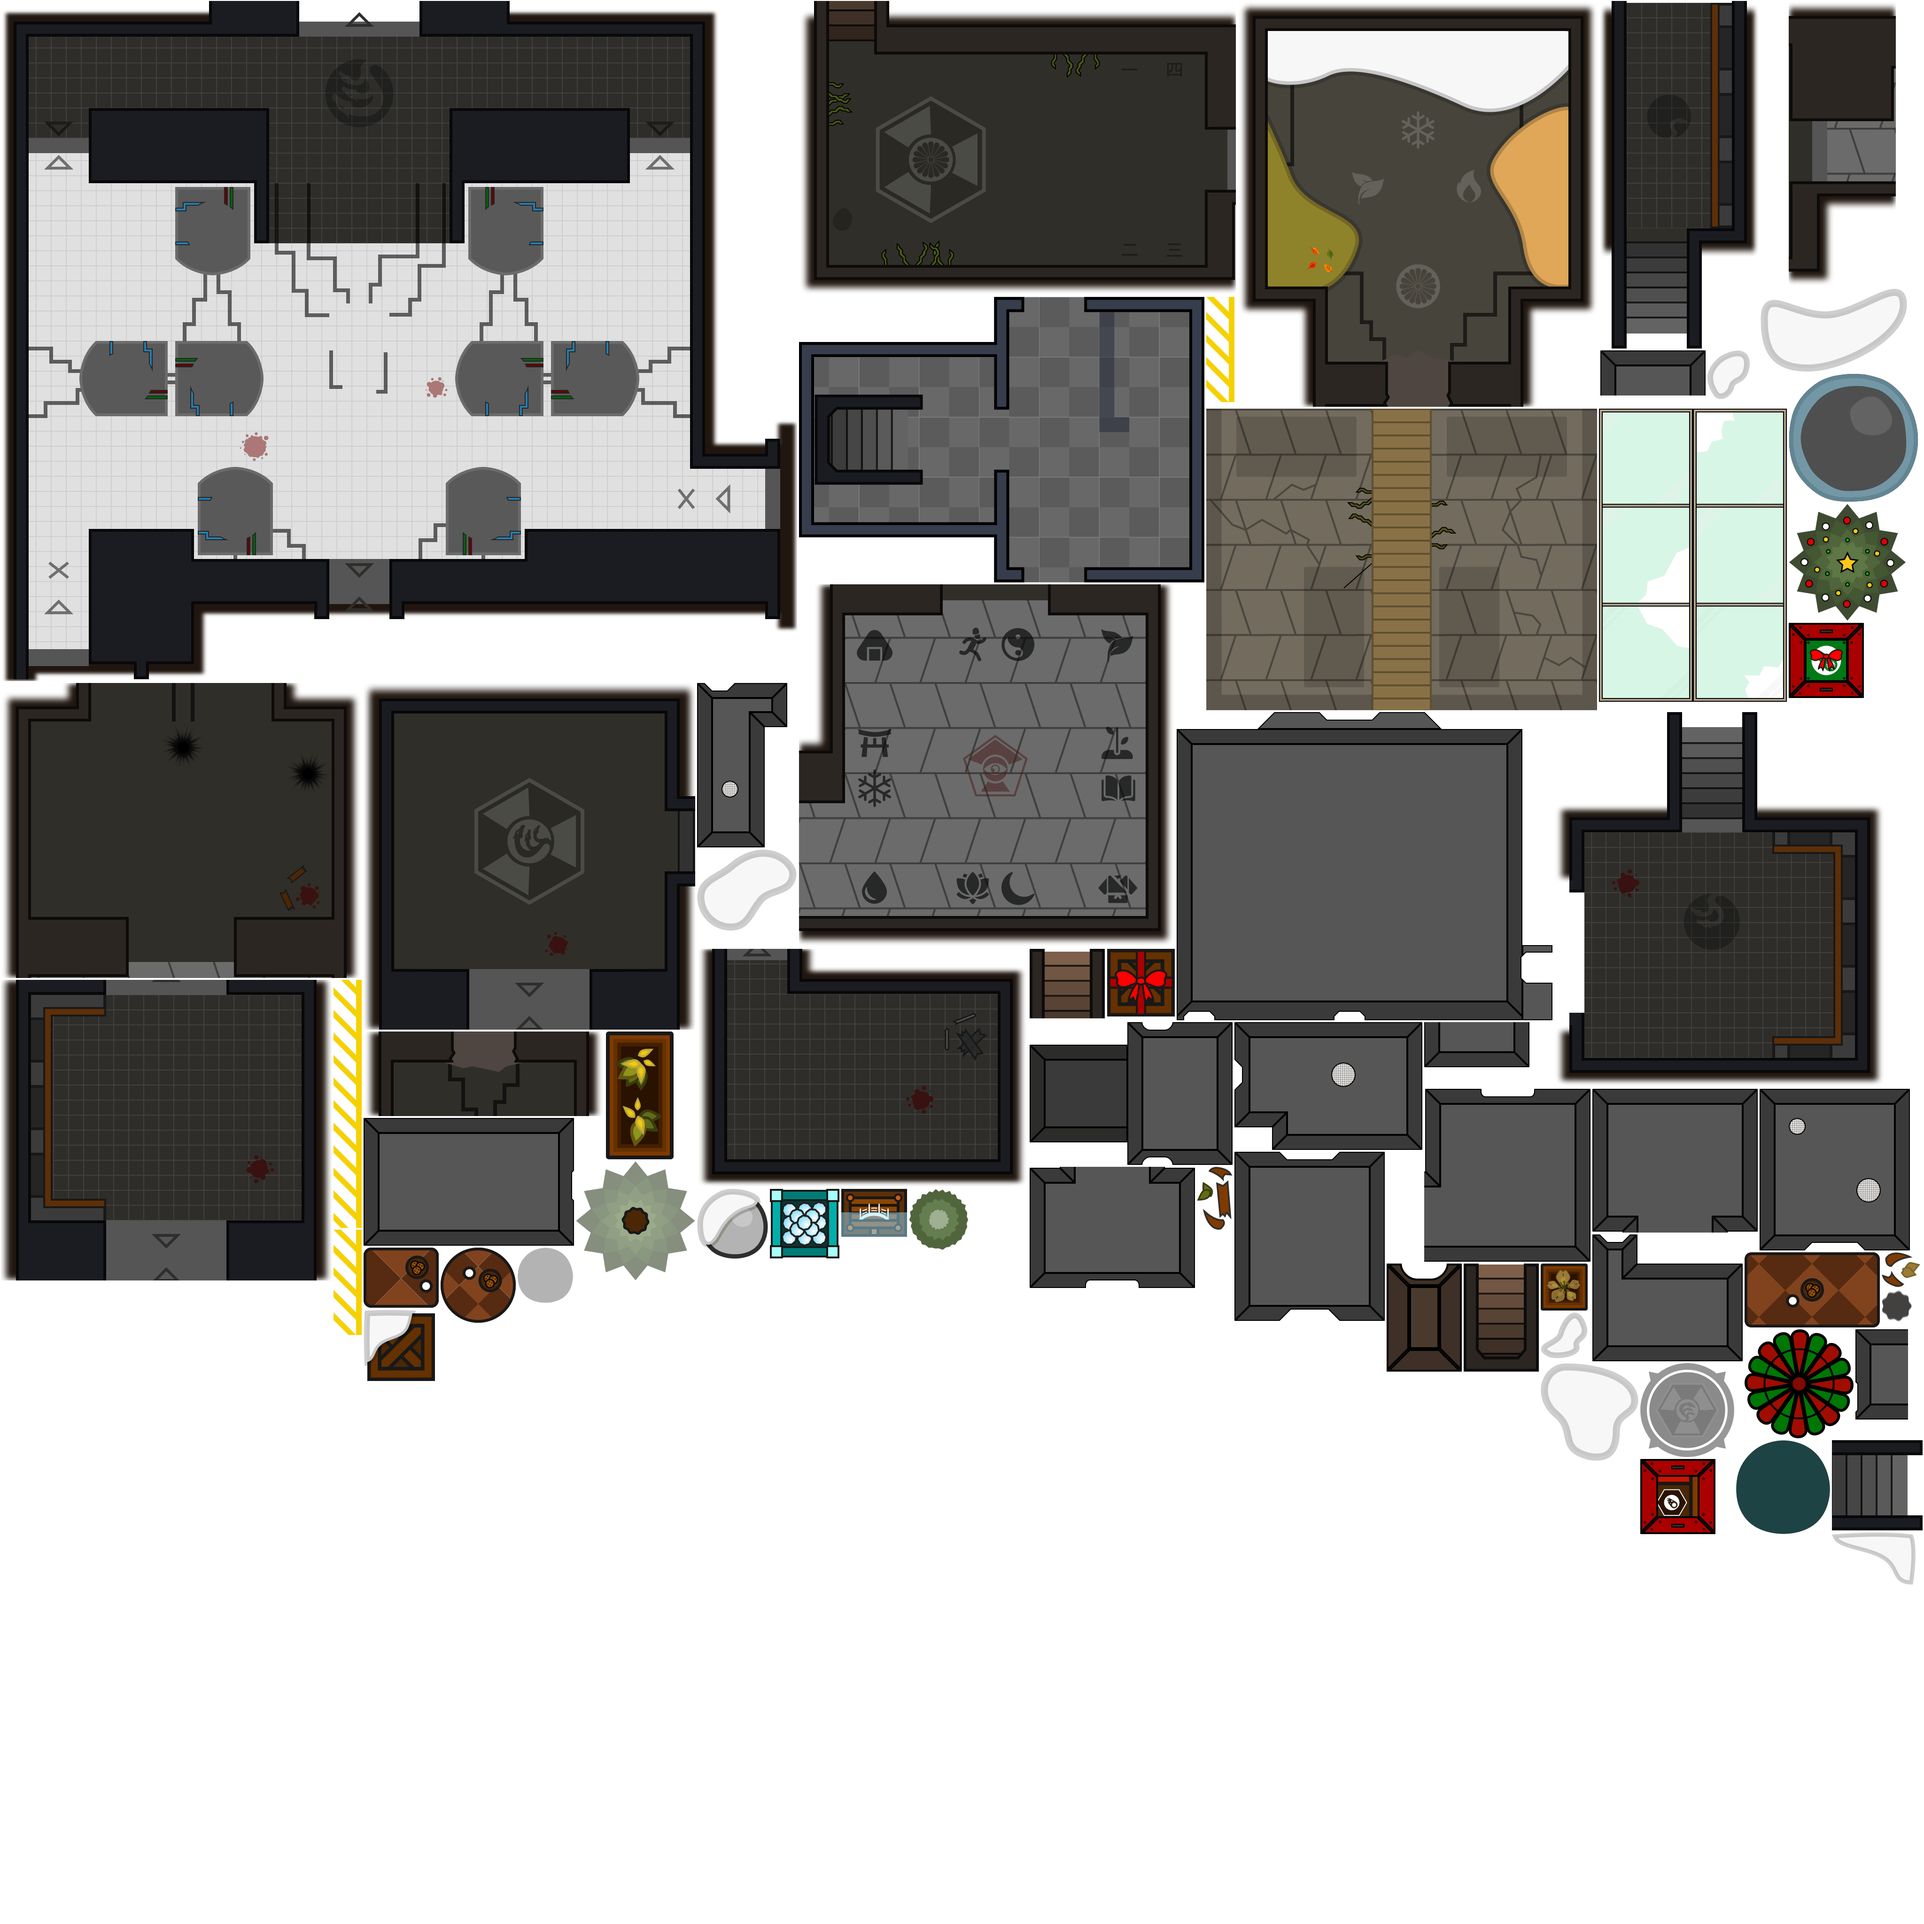
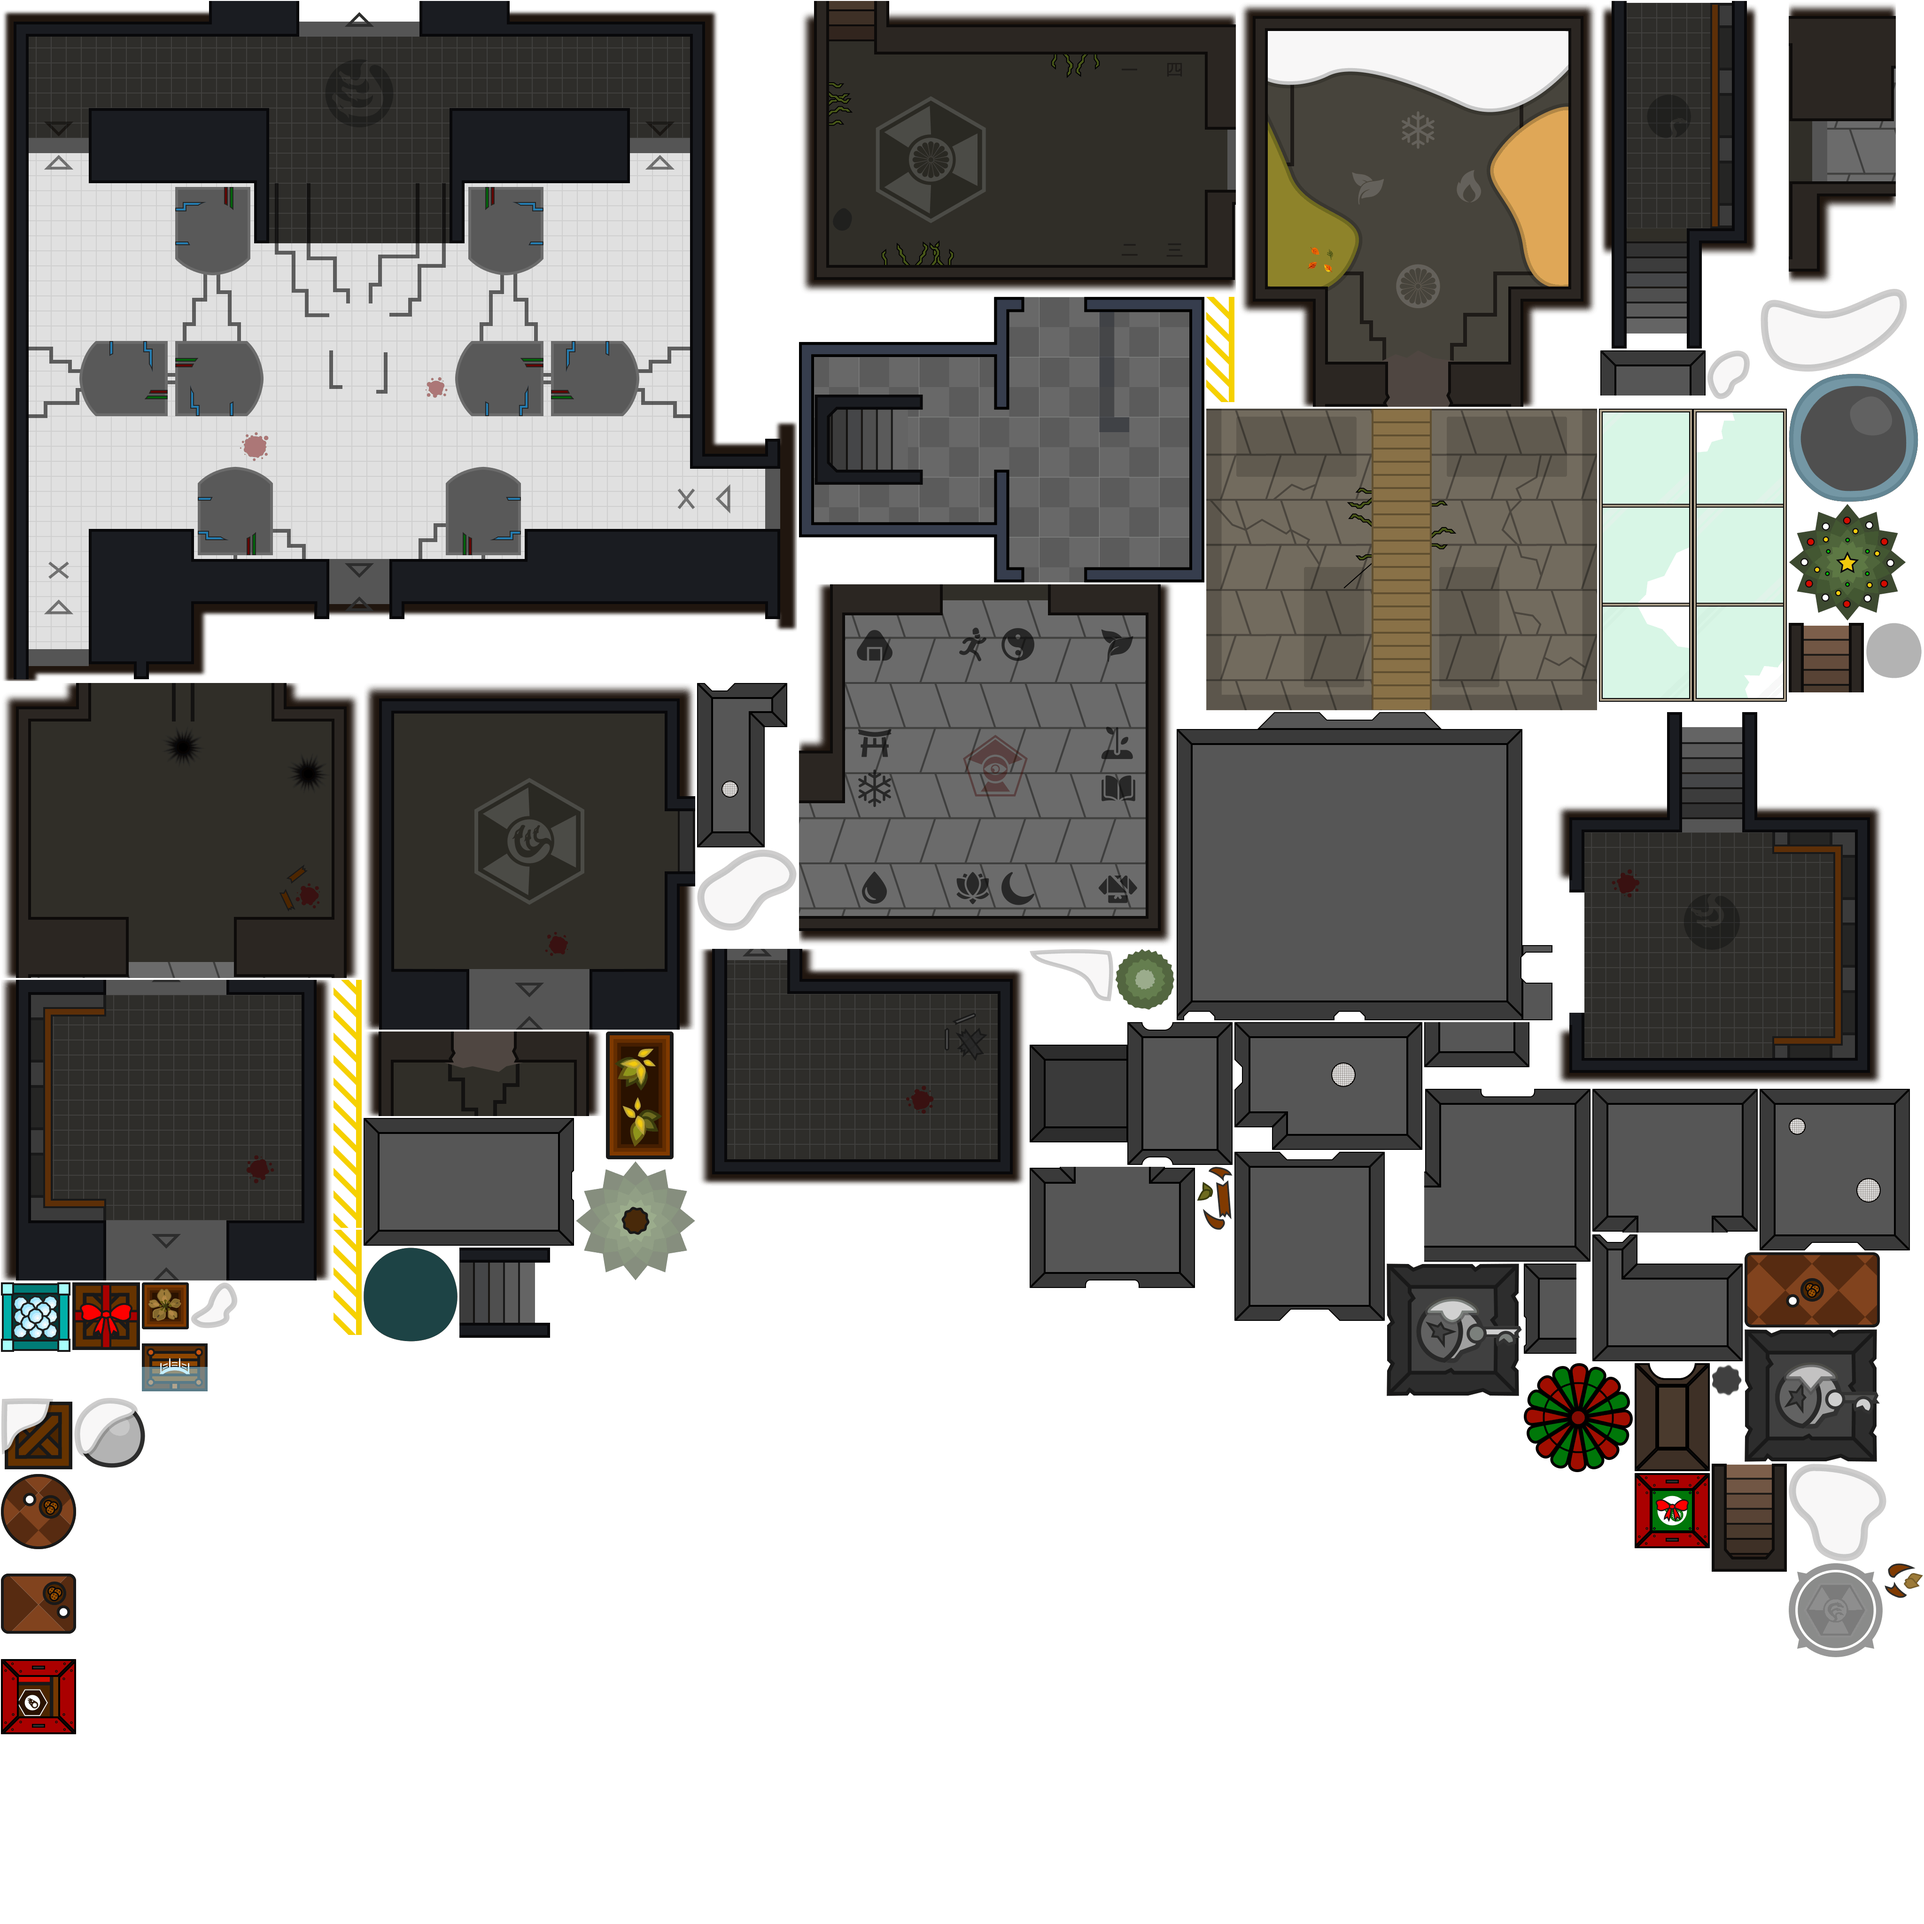
feat: add christmas/snow

diff --git a/shared/defs/maps/snowDefs.ts b/shared/defs/maps/snowDefs.ts
@@ -34,79 +34,7 @@ const mapDef: PartialMapDef = {
         },
         frozenSprites: ["player-snow-01.img", "player-snow-02.img", "player-snow-03.img"],
     },
-    /* STRIP_FROM_PROD_CLIENT:START */
-    gameConfig: {
-        planes: {
-            timings: [
-                {
-                    circleIdx: 0,
-                    wait: 10,
-                    options: { type: GameConfig.Plane.Airdrop },
-                },
-                {
-                    circleIdx: 1,
-                    wait: 10,
-                    options: { type: GameConfig.Plane.Airdrop },
-                },
-                {
-                    circleIdx: 2,
-                    wait: 6,
-                    options: { type: GameConfig.Plane.Airdrop },
-                },
-                {
-                    circleIdx: 3,
-                    wait: 2,
-                    options: { type: GameConfig.Plane.Airdrop },
-                },
-            ],
-            crates: [
-                { name: "airdrop_crate_01x", weight: 10 },
-                { name: "airdrop_crate_02x", weight: 1 },
-            ],
-        },
-    },
-    lootTable: {
-        tier_airdrop_outfits: [
-            { name: "", count: 1, weight: 3 },
-            { name: "outfitElf", count: 1, weight: 1 },
-        ],
-        tier_throwables: [
-            { name: "frag", count: 2, weight: 1 },
-            { name: "smoke", count: 1, weight: 1 },
-            { name: "mirv", count: 2, weight: 0.05 },
-            { name: "snowball", count: 5, weight: 0.5 },
-        ],
-        tier_airdrop_throwables: [
-            { name: "frag", count: 2, weight: 1 },
-            { name: "mirv", count: 2, weight: 0.5 },
-            { name: "snowball", count: 10, weight: 0.5 },
-        ],
-    },
     mapGen: {
-        densitySpawns: [
-            {
-                stone_01x: 350,
-                barrel_01: 76,
-                silo_01: 8,
-                crate_01: 38,
-                crate_02: 4,
-                crate_03: 8,
-                crate_03x: 1,
-                bush_01: 78,
-                cache_06: 12,
-                tree_01: 320,
-                hedgehog_01: 24,
-                container_01: 5,
-                container_02: 5,
-                container_03: 5,
-                container_04: 5,
-                shack_01: 7,
-                outhouse_01: 5,
-                loot_tier_1: 24,
-                loot_tier_beach: 4,
-            },
-        ],
-        randomSpawns: [],
         spawnReplacements: [
             {
                 bank_01: "bank_01x",
@@ -145,4 +73,4 @@ const mapDef: PartialMapDef = {
     /* STRIP_FROM_PROD_CLIENT:END */
 };
 
-export const Snow = util.mergeDeep({}, Main, mapDef) as MapDef;
+export const Snow = util.mergeDeep({}, mapDef) as MapDef;

diff --git a/shared/defs/maps/forcedLootDefs.ts b/shared/defs/maps/forcedLootDefs.ts
@@ -3,6 +3,7 @@ import { util } from "../../utils/util";
 import type { MapDef } from "../mapDefs";
 import { MapId } from "../types/misc";
 import { Main, type PartialMapDef } from "./baseDefs";
+import { Snow } from "./snowDefs";
 
 const mapDef: PartialMapDef = {
     mapId: MapId.ForcedLoot,
@@ -127,4 +128,4 @@ const mapDef: PartialMapDef = {
     },
 };
 
-export const ForcedLoot = util.mergeDeep({}, Main, mapDef) as MapDef;
+export const ForcedLoot = util.mergeDeep({}, Main, mapDef, Snow) as MapDef;

diff --git a/config.ts b/config.ts
@@ -34,7 +34,7 @@ export function getConfig(isProduction: boolean, dir: string) {
             { mapName: "forced_loot", teamMode: TeamMode.Squad, enabled: true },
             { mapName: "forced_loot2", teamMode: TeamMode.Squad, enabled: true },
         ],
-        clientTheme: "main",
+        clientTheme: "snow",
         gameTps: 100,
         netSyncTps: 33,
         processMode: isDev ? "single" : "multi",

diff --git a/client/atlas-builder/defs/snow.ts b/client/atlas-builder/defs/snow.ts
@@ -68,5 +68,7 @@ export const SnowAtlas: AtlasDef = {
         "map/map-table-03x.svg",
         "map/map-tree-10.svg",
         "map/map-tree-11.svg",
+        "map/map-statue-03.svg",
+        "map/map-statue-04.svg",
     ],
 };
